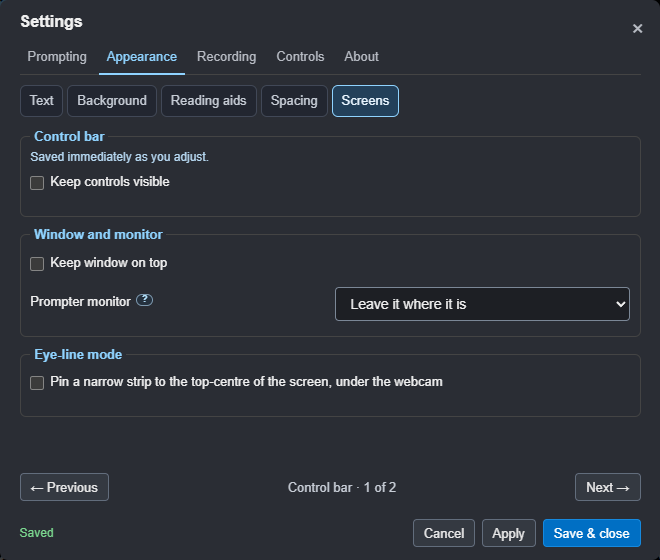
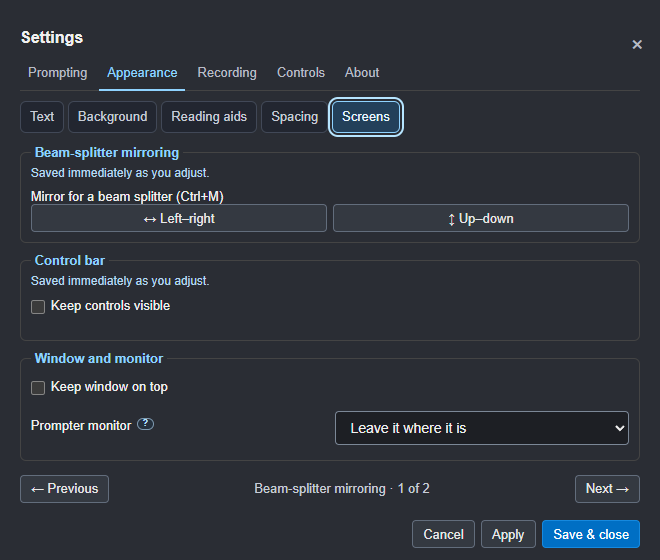
Fix native phone QR and capture settings; move voice help and organise mirroring

diff --git a/src/client/teleprompter.js b/src/client/teleprompter.js
@@ -330,7 +330,7 @@ window.addEventListener(
 window.addEventListener( "resize", applyMirror );
 
 function showMirrorButton() {
-	// Keep toolbar, Layout and Reading toggles in step.
+	// Keep the toolbar, quick panel and Settings toggles in step.
 	for ( const pill of [ ...document.querySelectorAll( ".mirror-pills [data-axis], .cb-mirror-axis" ), ...uiElement( "settings-modal" ).querySelectorAll( ".mirror-pills [data-axis]" ) ] ) {
 		const on = pill.dataset.axis === "h"
 			? mirrored === "horizontal" || mirrored === "both"
@@ -349,10 +349,10 @@ function toggleMirrorAxis( axis ) {
 	setMirrored( h && v ? "both" : h ? "horizontal" : v ? "vertical" : "off" );
 }
 
-document.addEventListener( "click", ( e ) => {
-	const pill = e.target.closest( ".mirror-pills [data-axis], .cb-mirror-axis" );
-	if ( pill ) toggleMirrorAxis( pill.dataset.axis );
-} );
+// Direct listeners travel with the controls into the separate Settings document.
+for ( const pill of document.querySelectorAll( ".mirror-pills [data-axis], .cb-mirror-axis" ) ) {
+	pill.addEventListener( "click", () => toggleMirrorAxis( pill.dataset.axis ) );
+}
 
 function setMirrored( value, save = true ) {
 	mirrored = normalizeMirror( value );
@@ -1646,7 +1646,9 @@ function voiceMiss( words ) {
 
 // "Prompter, what can I say?": every command on a card, until the next
 // command, Close or Esc. Tabs stay open while the speaker reads them.
-function showVoiceHelp() {
+let voiceHelpGeneration = 0;
+export async function showVoiceHelp() {
+	const generation = ++voiceHelpGeneration;
 	let card = uiElement( "voice-help" );
 	if ( !card ) {
 		card = document.createElement( "div" );
@@ -1671,11 +1673,16 @@ function showVoiceHelp() {
 	renderHelpTabs( uiElement( "voice-help-list" ), voiceHelpTabs( settings ), "voice-help" );
 	card.classList.remove( "hidden" );
 	clearTimeout( showVoiceHelp.timer );
+	await showPanelWindow( "voicehelp", card );
+	if ( generation !== voiceHelpGeneration || card.classList.contains( "hidden" ) ) hidePanelWindow( "voicehelp" );
+	else card.lastElementChild?.focus( { preventScroll: true } );
 }
 
 function hideVoiceHelp() {
+	voiceHelpGeneration++;
 	clearTimeout( showVoiceHelp.timer );
 	uiElement( "voice-help" )?.classList.add( "hidden" );
+	hidePanelWindow( "voicehelp" );
 }
 
 document.addEventListener( "keydown", ( e ) => {
@@ -2959,6 +2966,7 @@ window.electron.onMenuSettings( openSettings );
 window.electron.onUtilityPanelClose( ( kind, quit ) => {
 	if ( kind === "settings" ) requestCloseSettings( quit ? () => window.electron.windowControl( "close" ) : null );
 	if ( kind === "help" ) closeHelp();
+	if ( kind === "voicehelp" ) hideVoiceHelp();
 } );
 window.electron.getSettings();
 // --- Layout: margins, line spacing, alignment, edge fade ---
@@ -4951,7 +4959,7 @@ const LAYOUT_TITLES = { layout: "Layout", reading: "Reading", recording: "Record
 		if ( el.tagName === "H4" ) continue;
 		if ( el.tagName === "H5" ) tab = LAYOUT_GROUP_TABS[el.textContent.trim()] ?? "layout";
 		if ( el.classList.contains( "lp-actions" ) ) continue;
-		el.dataset.view = el.classList.contains( "lp-hint" ) ? "layout" : tab;
+		el.dataset.view = el.classList.contains( "lp-hint" ) || el.classList.contains( "lp-mirror-row" ) ? "layout" : tab;
 	}
 }
 let layoutView = "layout";
@@ -4996,6 +5004,10 @@ function borrowLayoutPanel() {
 		// The margins note and Reset layout belong with the spacing.
 		const spacing = el.classList.contains( "lp-hint" ) || el.classList.contains( "lp-actions" );
 		el.classList.remove( "lp-off" );
+		if ( el.classList.contains( "lp-mirror-row" ) ) {
+			uiElement( "set-mirror-host" ).append( el );
+			continue;
+		}
 		const id = el.dataset.settingsControl ?? el.querySelector( "input[id], select[id]" )?.id;
 		const destination = [ "lp-font", "lp-heading-font", "lp-heading-scale" ].includes( id ) ? "reading" : id === "lp-theme" ? "background" : [ "lp-marker", "lp-sentence", "lp-progress" ].includes( id ) ? "aids" : id === "lp-pinned" ? "display" : id === "lp-summary" ? "recording" : spacing ? "layout" : tab;
 		( layoutHosts[destination] ?? layoutHost ).append( el );

diff --git a/src/utility-windows.js b/src/utility-windows.js
@@ -3,7 +3,7 @@ import path from "node:path";
 import { pathToFileURL } from "node:url";
 import { fitInside } from "./utils/fit.js";
 
-// Only the two local, same-origin hosts may retain an opener. Their live DOM
+// Only the local, same-origin panel hosts may retain an opener. Their live DOM
 // and handlers belong to the prompter; no second speech or recording engine runs.
 export function createUtilityWindows( { dir, prompter, getSettings, saveSettings } ) {
 	const host = pathToFileURL( path.join( dir, "client", "utility-window.html" ) ).href;
@@ -11,7 +11,8 @@ export function createUtilityWindows( { dir, prompter, getSettings, saveSettings
 	let dirty = false;
 	let focused = null;
 	let timer;
-	const kindOf = ( url, frameName ) => [ "settings", "help" ].find( kind => url === `${ host }?panel=${ kind }` && frameName === `sightline-${ kind }` );
+	const kinds = [ "settings", "help", "voicehelp" ];
+	const kindOf = ( url, frameName ) => kinds.find( kind => url === `${ host }?panel=${ kind }` && frameName === `sightline-${ kind }` );
 	const restack = () => {
 		for ( const [ kind, win ] of [ ...windows ].sort( ( [ a ], [ b ] ) => Number( a === focused ) - Number( b === focused ) ) ) {
 			if ( win.isDestroyed() || !win.isVisible() ) continue;
@@ -29,7 +30,7 @@ export function createUtilityWindows( { dir, prompter, getSettings, saveSettings
 		prompter.webContents.send( "utilityPanelClose", kind, quit );
 	};
 	const action = ( event, kind, name, value ) => {
-		if ( event.sender !== prompter.webContents || ![ "settings", "help" ].includes( kind ) ) return;
+		if ( event.sender !== prompter.webContents || !kinds.includes( kind ) ) return;
 		if ( name === "dirty" && kind === "settings" ) dirty = value === true;
 		const win = windows.get( kind );
 		if ( !win || win.isDestroyed() ) return;
@@ -58,6 +59,10 @@ export function createUtilityWindows( { dir, prompter, getSettings, saveSettings
 	screen.on( "display-metrics-changed", refit );
 	return {
 		restack, isDirty: () => dirty, requestClose: closeRequest,
+		apply() {
+			for ( const win of windows.values() ) if ( !win.isDestroyed() ) win.setContentProtection( !!getSettings().hideFromCapture );
+			restack();
+		},
 		dialogParent() {
 			for ( const win of windows.values() ) if ( !win.isDestroyed() && win.isFocused() ) return win;
 			return prompter;
@@ -66,7 +71,7 @@ export function createUtilityWindows( { dir, prompter, getSettings, saveSettings
 			const kind = kindOf( url, frameName );
 			if ( !kind ) return null;
 			const area = screen.getDisplayMatching( prompter.getBounds() ).workArea;
-			const size = kind === "settings" ? { width: 676, height: 599 } : { width: 996, height: 679 };
+			const size = kind === "settings" ? { width: 676, height: 599 } : kind === "voicehelp" ? { width: 776, height: 639 } : { width: 996, height: 679 };
 			const candidate = getSettings().utilityWindowBounds?.[kind];
 			const saved = candidate && [ "x", "y", "width", "height" ].every( key => Number.isFinite( candidate[key] ) ) && candidate.width >= 380 && candidate.height >= 420 ? candidate : null;
 			const bounds = fitInside( saved ?? { ...size, x: Math.round( area.x + ( area.width - size.width ) / 2 ), y: Math.round( area.y + ( area.height - size.height ) / 2 ) }, area );
@@ -76,7 +81,7 @@ export function createUtilityWindows( { dir, prompter, getSettings, saveSettings
 			const kind = kindOf( details.url, details.frameName );
 			if ( !kind ) return;
 			windows.set( kind, win );
-			win.setContentProtection( true );
+			win.setContentProtection( !!getSettings().hideFromCapture );
 			win.setAlwaysOnTop( true, "screen-saver" );
 			win.on( "focus", () => {
 				focused = kind;

diff --git a/src/client/settings-pages.js b/src/client/settings-pages.js
@@ -152,7 +152,7 @@ export function addSettingsHelp( modal ) {
 		[ "lp-backing-on-air", "The saved background level while ON AIR is enabled. A low percentage lets you see more of your camera preview, slides or call through the prompting window." ],
 		[ "lp-heading-scale", "Scales titles and section headings relative to their usual size. Reduce this if headings take up too much room after increasing the size of the words you read." ],
 		[ "lp-heading-font", "Choose a separate font for titles and section headings. Same as the text follows your body font; choosing another font changes the headings while keeping the body font you selected." ],
-		[ "lp-hide-capture", "Asks supported capture tools to exclude the prompter. Whole-screen and third-party capture can behave differently, so make a short test recording to check the result. The head guide has its own capture protection." ],
+		[ "lp-hide-capture", "Asks supported capture tools to exclude the prompter, Settings, keyboard and voice Help, and guide adjustments. Turn it off to capture these windows for support. The head guide overlay stays protected independently. Whole-screen and third-party capture can behave differently; check with a short test recording." ],
 		[ "lp-click-through", "Mouse clicks pass to the application behind Sightline. Use Ctrl+Shift+X to turn click-through off again, or use the control window or Stream Deck." ],
 		[ "lp-points", "Show speaking notes one page at a time. H1 headings or {page} divide pages; H2 headings are points within a page. Next and Back change pages instead of scrolling through a script." ]
 	] ) {

diff --git a/src/head-guide.js b/src/head-guide.js
@@ -83,7 +83,7 @@ export function createHeadGuide( { dir, prompter, getSettings, saveSettings, sav
 			const saved = getSettings().headGuideControlsBounds;
 			const bounds = fitInside( saved ?? { x: area.x + area.width - 400, y: area.y + 30, width: 390, height: 740 }, area );
 			controls = new BrowserWindow( { ...bounds, minWidth: Math.min( 350, area.width ), minHeight: Math.min( 460, area.height ), show: false, minimizable: false, maximizable: false, fullscreenable: false, autoHideMenuBar: true, title: "Guide adjustments", backgroundColor: "#15222b", webPreferences: { nodeIntegration: false, contextIsolation: true, sandbox: false, preload: path.join( dir, "client", "head-guide-preload.mjs" ) } } );
-			controls.setContentProtection( true );
+			controls.setContentProtection( !!getSettings().hideFromCapture );
 			controls.setAlwaysOnTop( true, "screen-saver" );
 			controls.loadFile( path.join( dir, "client", "head-guide.html" ), { query: { controls: "1" } } );
 			controls.once( "ready-to-show", () => {
@@ -156,6 +156,7 @@ export function createHeadGuide( { dir, prompter, getSettings, saveSettings, sav
 			overlay.webContents.setWindowOpenHandler( () => ( { action: "deny" } ) );
 		}
 		fitMode();
+		controls?.setContentProtection( !!getSettings().hideFromCapture );
 		restack();
 		send();
 	}

diff --git a/src/client/teleprompter.html b/src/client/teleprompter.html
@@ -234,13 +234,6 @@
           <option value="center">Centre</option>
         </select>
       </div>
-      <div class="lp-row lp-mirror-row">
-        Mirror (Ctrl+M)
-        <div class="mirror-pills" role="group" aria-label="Mirror">
-          <button type="button" data-axis="h" aria-pressed="false" title="Mirror left to right (most beam splitters). Click again to turn it off">↔ Left–right</button>
-          <button type="button" data-axis="v" aria-pressed="false" title="Mirror top to bottom. Click again to turn it off">↕ Up–down</button>
-        </div>
-      </div>
       <label class="lp-check"
         ><input id="lp-marker" type="checkbox" /> Reading-line marker</label
       >
@@ -826,6 +819,10 @@
         </fieldset>
         <fieldset data-tab="aids" id="set-aids-host">
           <legend>Reading aids</legend>
+          <p class="settings-live-note">Saved immediately as you adjust.</p>
+        </fieldset>
+        <fieldset data-tab="display" id="set-mirror-host">
+          <legend>Beam-splitter mirroring</legend>
           <p class="settings-live-note">Saved immediately as you adjust.</p>
         </fieldset>
         <fieldset data-tab="display" id="set-display-host">

diff --git a/src/client/utility-window.css b/src/client/utility-window.css
@@ -4,3 +4,7 @@ html, body.utility-window { margin: 0; width: 100%; height: 100%; overflow: hidd
 .utility-window .settings-content { padding: 16px 20px; }
 .utility-window .settings-head { -webkit-app-region: no-drag; }
 .utility-window .settings-head h3 { cursor: default; }
+.utility-window #voice-help { position: static; width: 100%; height: 100dvh; max-width: none; max-height: none; transform: none; border: 0; border-radius: 0; }
+.utility-window #voice-help > button { align-self: flex-end; min-width: 80px; padding: 6px 14px; border: 1px solid #505866; border-radius: 4px; background: #343840; color: #e8e8e8; font: inherit; }
+.utility-window #voice-help > button:hover { background: #454c58; }
+.utility-window #voice-help > button:focus-visible { outline: 2px solid #8fd3ff; outline-offset: 2px; }

diff --git a/src/client/panel-windows.js b/src/client/panel-windows.js
@@ -26,7 +26,7 @@ export async function showPanelWindow( kind, node, onResize = () => {} ) {
 			const timeout = setTimeout( () => reject( new Error( "The floating window did not load" ) ), 8000 );
 			popup.addEventListener( "load", () => {
 				clearTimeout( timeout );
-				popup.document.title = kind === "settings" ? "Sightline Settings" : "Sightline Help and shortcuts";
+				popup.document.title = kind === "settings" ? "Sightline Settings" : kind === "voicehelp" ? "Sightline Voice commands" : "Sightline Help and shortcuts";
 				popup.document.body.append( popup.document.adoptNode( node ) );
 				node.setAttribute( "aria-modal", "false" );
 				popup.addEventListener( "resize", () => {

diff --git a/src/client/utility-window.html b/src/client/utility-window.html
@@ -2,7 +2,7 @@
 <html lang="en">
 <head>
 <meta charset="utf-8">
-<meta http-equiv="Content-Security-Policy" content="default-src 'self'; script-src 'self'; style-src 'self' 'unsafe-inline'; font-src 'self'">
+<meta http-equiv="Content-Security-Policy" content="default-src 'self'; script-src 'self'; style-src 'self' 'unsafe-inline'; font-src 'self'; img-src 'self' data:">
 <title>Sightline</title>
 <link rel="stylesheet" href="teleprompter.css">
 <link rel="stylesheet" href="utility-window.css">

diff --git a/src/main.js b/src/main.js
@@ -465,7 +465,7 @@ function applyWindowSettings( win, wasEyeLine ) {
 	// is over the control bar or a panel, so the controls stay usable.
 	win.setIgnoreMouseEvents( !!settings.clickThrough, { forward: true } );
 	framingGuide?.restack();
-	utilityWindows?.restack();
+	utilityWindows?.apply();
 }
 
 const emptySlotHtml = index =>

diff --git a/readme.md b/readme.md
@@ -237,10 +237,22 @@ RC2 refreshed its bundled help and added the reusable acceptance samples.
 **1.0.7-rc.7** adds floating guide adjustments, eye-anchored edge fitting and
 separate guide-background opacity;
 **1.0.7-rc.8** also makes Settings and F1 Help independent movable windows;
-**1.0.7-rc.9** adds optional offline reading at the end of Windows installation.
+**1.0.7-rc.9** adds optional offline reading at the end of Windows installation;
+**1.0.7-rc.10** fixes the phone QR image, makes voice help movable, puts
+mirroring under Screens and honours capture preferences for helper windows.
 The latest published app remains **1.0.6**. No tag, merge, Marketplace publication or
 website deployment is part of this candidate.
 
+- **Phone QR and helper windows:** **Controls > Phone** displays its QR code
+  in the separate Settings window. **Hide from capture** now applies live to
+  Settings, keyboard/voice Help and Guide adjustments; turn it off to capture
+  those windows for support. The head-guide overlay keeps independent protection.
+- **One mirroring home:** **Appearance > Screens > Beam-splitter mirroring**
+  contains both toggles, with no copies in Background or Spacing. Settings
+  toggles work in their separate window and remain in sync with the toolbar.
+- **Movable voice help:** **“Prompter, what can I say?”** opens a separate,
+  upright window with grouped tabs, a draggable title bar and remembered
+  position/size. Close, Escape and **“Prompter, close”** dismiss it independently.
 - **Read after installing:** the Windows finish page has independent **Read
   release notes** and **Read Getting Started guide** tick boxes alongside
   **Run Sightline Prompter**. The reading options start unticked and open
@@ -251,7 +263,7 @@ website deployment is part of this candidate.
   previews and Apply/Save/Cancel behaviour. Closing Settings, or quitting the
   app with a draft, asks before discarding changes. Reopening an already open
   window brings it forward without resetting the draft. Both stay above the
-  prompter, including fullscreen, and have capture protection enabled.
+  prompter, including fullscreen, and follow **Hide from capture**.
 - **Guide adjustments in fullscreen:** the prompter's **Guide adjustments**
   button, **Tools > Guide adjustments…**, and the guide's **Adjust** toggle a
   separate window above the prompter, even when the guide is Clean or locked.

diff --git a/docs/guide/07-settings.md b/docs/guide/07-settings.md
@@ -8,6 +8,9 @@ In RC8, Settings opens in its own upright window. Drag the native title bar
 to place it beside the prompter or on another screen. Its position and size
 are remembered; opening Settings again brings the same window forward and
 keeps any unsaved draft. **F1 / ?** opens Help in a separate movable window too.
+**“Prompter, what can I say?”** also has its own movable window in RC10.
+Settings, both help windows and Guide adjustments follow **Hide from capture**;
+turn it off to take support screenshots. The head-guide overlay stays protected.
 There are five groups, with a second row of focused topics. Each setting has
 one home. Script files, recordings and settings import/export are in the
 **Files menu (☰)**; live tools are under **Tools** on the top bar.
@@ -44,7 +47,7 @@ without disappearing as you move the pointer onto it.
 | | Background | Text opacity, backing on/off air, brightness and colour theme |
 | | Reading aids | Focus band, text edge, reading-line marker, sentence highlight and progress bar |
 | | Spacing | Margins, line spacing, reading line, alignment and mirror axes |
-| | Screens | Prompter monitor, Keep on top, eye-line strip and keeping controls visible |
+| | Screens | Beam-splitter mirroring, prompter monitor, Keep on top, eye-line strip and keeping controls visible |
 | **Recording** | Takes | Slate, ON AIR display, countdown beep, capture protection and click-through |
 | | Audio | Scratch audio, loudness per take and keeping the sound-check meter visible |
 | | OBS connection | Enable OBS, address, port, protected password and the saved-connection test |
@@ -125,6 +128,8 @@ available from **Tools > Sound check** or **Ctrl+Shift+D**.
 **Controls > Phone** pairs a phone on the same Wi-Fi. **Controls > Stream Deck**
 enables the companion plugin's connection. **Controls > AI & API** enables an
 AI assistant or local script to control Sightline. Each connection is optional.
+Enable Phone and choose **Apply** or **Save & close** to display the QR code.
+RC10 fixes its image in the separate Settings window.
 
 **Check compatibility** shows the running Sightline version, the connected
 plugin's reported version and any update requirement. Version reporting needs

diff --git a/src/samples/acceptance-main.md b/src/samples/acceptance-main.md
@@ -6,9 +6,11 @@
 
 [Check OBS is connected and recording controls are allowed. Prepare the recorded slate, choose Flash and beep, and enable scratch audio. The script does not enable these settings for you.]
 
-[A00. Before recording, choose Check compatibility in Settings > Controls > Stream Deck. Confirm Sightline RC9 and plugin 0.1.9 are reported as compatible. In Stream Deck, open a key's settings and check its connection result.]
+[A00. Before recording, choose Check compatibility in Settings > Controls > Stream Deck. Confirm Sightline RC10 and plugin 0.1.9 are reported as compatible. In Stream Deck, open a key's settings and check its connection result.]
 
 [A00b. Before recording, open Settings from Files. Move its window by the native title bar, onto another screen if available. Close and reopen: it should remember its position. Change a draft setting and try closing: Keep editing must retain it; Apply must save without closing. F1 Help should also move independently and keep a stable frame across tabs. Mirror the prompter: Settings and Help must stay upright. Tools opens below its button; Edit beside it opens read-only sample source with Save a copy. In a spare slot try Clear, then Cancel: the sample must remain. Return here.]
+
+[A00c. Before recording, check the phone QR appears under Controls > Phone after Apply. Mirroring belongs only under Appearance > Screens. Say "Prompter, what can I say?", drag its window aside and close it with "Prompter, close". Turn Hide from capture off if you need screenshots of Settings or either help window.]
 
 [Use the Stream Deck Record take key to begin. Wait for confirmation and the slate. For the room check stay quiet; for the voice check read the card. After each result use Play / Pause to carry on.]
 
